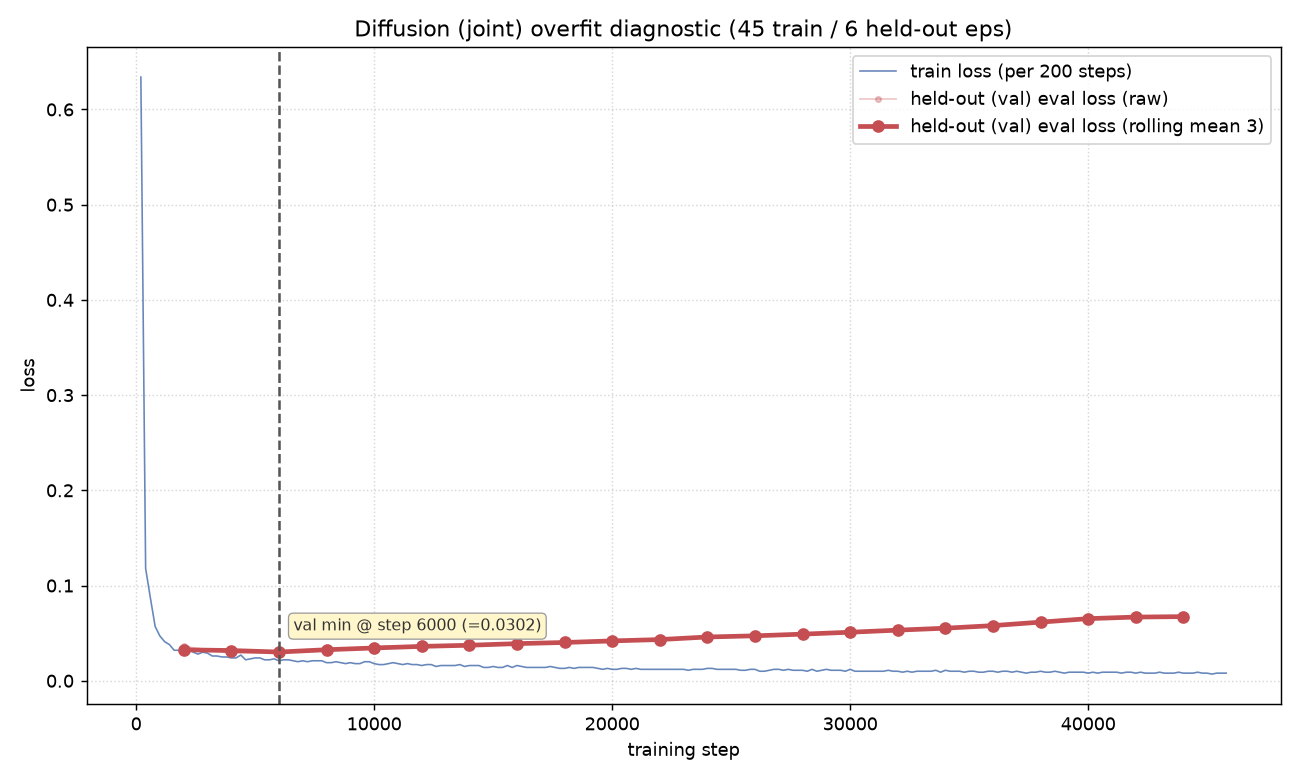
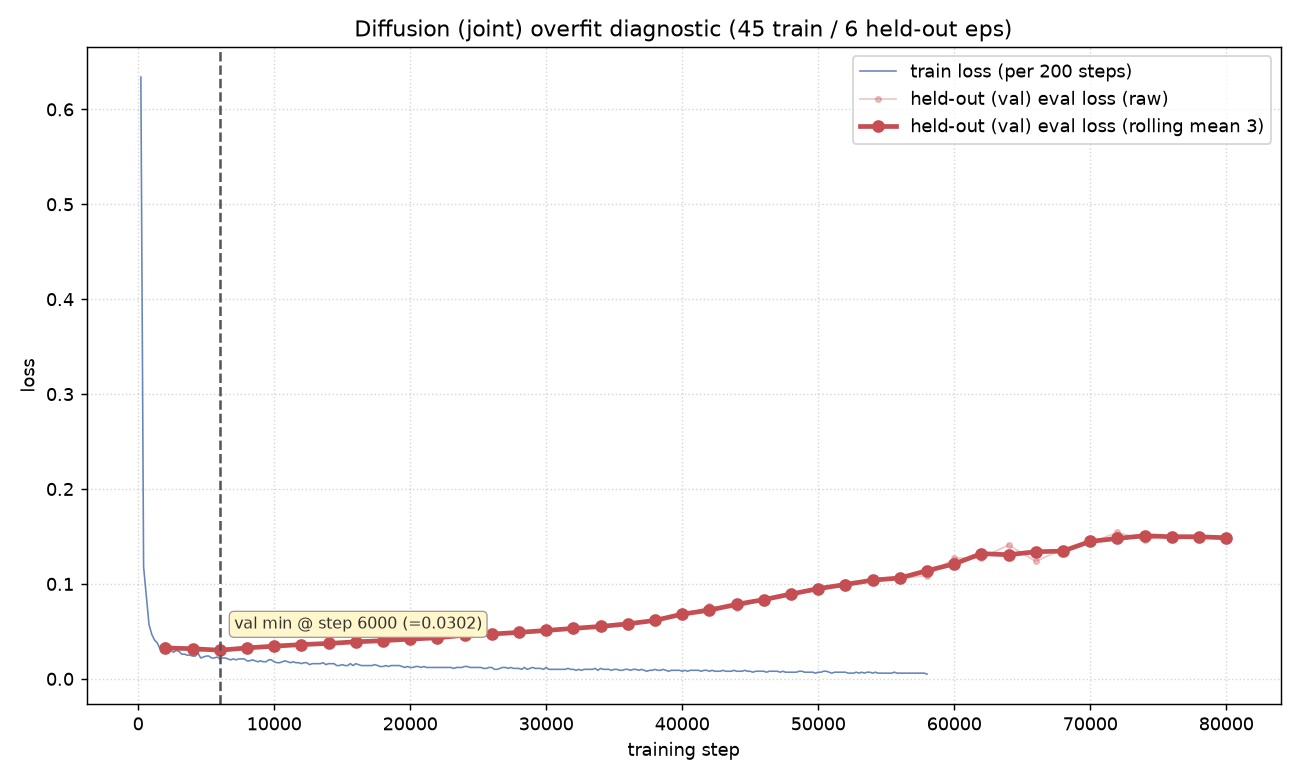
docs: joint diffusion run completed at 80k — final open-loop results
The JOINT diffusion run went the full 80k (not early-stopped). Sync the
final report, diagnostic figure, README headline block, and experiment log.

- Open-loop poseMAE: 10k 0.1193 -> 40k 0.0907 -> 60k 0.0849 -> 80k 0.0845;
  plateaus ~0.085 from 60k. gripAcc climbs to 0.953 @ 80k.
- NO open-loop overfitting through 80k; best checkpoint = 80k (deploy this).
- Denoising eval_loss rose to 0.1487 @ 80k (5x) and is confirmed misleading.
- select-by-open-loop-MAE lesson decisively confirmed for diffusion.
- Move the JOINT thread from open to resolved in EXPERIMENT_LOG.

Claude-Session: https://claude.ai/code/session_015uqrQGSgzNwrzejyrHvcEH

diff --git a/docs/DIFFUSION_JOINT_OVERFIT.md b/docs/DIFFUSION_JOINT_OVERFIT.md
@@ -28,22 +28,40 @@ _Trained on 45 episodes, 6 episodes (eps 45-50) held out as a true validation sp
 | 36000 | 0.0100 | 0.0565 |
 | 38000 | 0.0100 | 0.0622 |
 | 40000 | 0.0080 | 0.0660 |
-| 42000 | 0.0080 | 0.0675 |
-| 44000 | 0.0080 | 0.0672 |
+| 42000 | 0.0080 | 0.0764 |
+| 44000 | 0.0080 | 0.0746 |
+| 46000 | 0.0080 | 0.0845 |
+| 48000 | 0.0070 | 0.0913 |
+| 50000 | 0.0070 | 0.0921 |
+| 52000 | 0.0070 | 0.1018 |
+| 54000 | 0.0060 | 0.1042 |
+| 56000 | 0.0060 | 0.1060 |
+| 58000 | 0.0050 | 0.1086 |
+| 60000 | 0.0050 | 0.1272 |
+| 62000 | 0.0050 | 0.1275 |
+| 64000 | 0.0050 | 0.1410 |
+| 66000 | 0.0050 | 0.1238 |
+| 68000 | 0.0050 | 0.1369 |
+| 70000 | 0.0050 | 0.1431 |
+| 72000 | 0.0050 | 0.1543 |
+| 74000 | 0.0050 | 0.1464 |
+| 76000 | 0.0050 | 0.1517 |
+| 78000 | 0.0050 | 0.1509 |
+| 80000 | 0.0050 | 0.1464 |
 
 ## Summary
 
 - **Val-loss minimum:** 0.0302 @ step **6000** (smoothed, rolling mean 3)
-- **Final val loss:** 0.0673 @ step 44000 (smoothed, rolling mean 3)
-- **val_final / val_min ratio:** 2.2326
-- **Train vs val at final step (44000):** train 0.0080 vs val 0.0673 (gap = -0.0593)
+- **Final val loss:** 0.1487 @ step 80000 (smoothed, rolling mean 3)
+- **val_final / val_min ratio:** 4.9276
+- **Train vs val at final step (80000):** train 0.0050 vs val 0.1487 (gap = -0.1436)
 - **Recommended early-stop step:** 6000 (step of the val-loss minimum)
 
 ## Auto verdict
 
 > **OVERFIT from ~step 6000**
 
-The held-out loss bottoms at 0.0302 (step 6000) then rises to 0.0673 at the end (ratio 2.233 > 1.10). The model is overfitting the 45 training episodes past ~step 6000: further steps trade held-out generalization for lower train loss. **Use the checkpoint at step 6000 (recommended early-stop).**
+The held-out loss bottoms at 0.0302 (step 6000) then rises to 0.1487 at the end (ratio 4.928 > 1.10). The model is overfitting the 45 training episodes past ~step 6000: further steps trade held-out generalization for lower train loss. **Use the checkpoint at step 6000 (recommended early-stop).**
 
 ## How to read this (caveats)
 
@@ -54,30 +72,32 @@ The held-out loss bottoms at 0.0302 (step 6000) then rises to 0.0673 at the end 
 
 ---
 
-## IMPORTANT — two signals DISAGREE for diffusion (2026-07-09, early-stopped ~45k)
+## FINAL — full open-loop curve to 80k (run completed 2026-07-09)
 
-**Held-out denoising loss (`eval_loss`, the val-curve above) rose** from 0.0289 (4k, min) to
-0.0673 (44k) — this LOOKS like textbook overfitting and is why the run was early-stopped.
+Joint run reached 80k. Held-out denoising `eval_loss` kept rising to **0.1487 @ 80k**
+(from 0.0289 @ 4k) — i.e. the loss curve screams "severe overfit, 5×".
 
-**But the deployment-relevant open-loop rollout MAE tells the OPPOSITE story** — it kept
-improving (`eval_offline.py`, DDIM-10, held-out eps 45–50, radians):
+But the deployment-relevant **open-loop rollout MAE** (eval_offline.py, DDIM-10, held-out
+eps 45–50) tells the opposite story across the FULL run:
 
 | checkpoint | poseMAE (rad) | gripAcc | overall L1 |
 |---|---|---|---|
 | 10k | 0.1193 | 0.729 | 0.1454 |
 | 20k | 0.1037 | 0.888 | 0.1078 |
 | 30k | 0.0921 | 0.919 | 0.0928 |
-| **40k** | **0.0907** | **0.949** | **0.0862** |
+| 40k | 0.0907 | 0.949 | 0.0862 |
+| 50k | 0.0865 | 0.942 | 0.0832 |
+| 60k | 0.0849 | 0.944 | 0.0812 |
+| 70k | 0.0855 | 0.951 | 0.0809 |
+| **80k** | **0.0845** | **0.953** | **0.0796** |
 
-Open-loop poseMAE and gripper accuracy **monotonically improve 10k→40k** (still improving,
-decelerating), directly contradicting the denoising-loss "overfit" reading.
+**Conclusion:** open-loop poseMAE improves monotonically then **plateaus at ~0.085 from
+60k onward** (60k/70k/80k = 0.0849/0.0855/0.0845, within eval noise); gripper accuracy climbs
+all the way to **0.953 @ 80k**. There is **NO open-loop overfitting through 80k** — the model
+kept getting better (or held) on held-out data the entire run, directly contradicting the
+denoising `eval_loss`.
 
-**Methodological conclusion:** for a **diffusion** policy the held-out **denoising MSE is NOT a
-reliable early-stop / overfit signal** — it can rise while the actual generated-action quality
-improves (the two decorrelate because the loss scores noise prediction at random timesteps, not
-sampled-action accuracy). The **open-loop rollout MAE is the signal that matters**, and it says
-the model was NOT harmfully overfitting. This is the opposite of ACT, where the two signals agreed.
-
-**Practical takeaway:** best available joint-diffusion checkpoint = **40k** (poseMAE 0.091,
-gripAcc 0.95). The run was early-stopped at ~45k on the misleading loss curve; the open-loop
-trend suggests it had not yet plateaued and could improve further with more steps.
+**Best checkpoint = 80k** (tied-best poseMAE, best gripAcc); anything ≥60k is effectively
+equivalent on pose. Deploy 80k. This decisively confirms the project's headline lesson:
+**for a diffusion policy, held-out denoising eval_loss is NOT a valid overfit/early-stop
+signal — select by open-loop MAE.** (Contrast ACT, where the two signals agreed.)

diff --git a/EXPERIMENT_LOG.md b/EXPERIMENT_LOG.md
@@ -38,16 +38,20 @@ Key resolved config decisions (chosen for ACT-comparability and correctness): **
 
 This is the most instructive entry, and it involved a real course-correction — recorded honestly.
 
-The JOINT diffusion run's held-out **denoising `eval_loss` ROSE** from its minimum ~0.0289 (4k) to ~0.0673 (44k) — a textbook-looking overfit curve (`val_final/val_min` ≈ 2.2, auto-verdict "OVERFIT from ~step 6000"). **On that misleading signal the run was early-stopped at ~45k.** Then `eval_offline.py` open-loop rollout MAE (DDIM-10, held-out eps 45–50) was computed on the saved checkpoints and told the **opposite** story — it improved **monotonically**:
+The JOINT diffusion run's held-out **denoising `eval_loss` ROSE** from its minimum ~0.0289 (4k) to **0.1487 (80k)** — a textbook-looking overfit curve (`val_final/val_min` ≈ 4.9, auto-verdict "OVERFIT from ~step 6000"). That misleading signal initially prompted an early-stop plan at ~45k, but the run was **carried through to the full 80k** to read the deployment-relevant metric. `eval_offline.py` open-loop rollout MAE (DDIM-10, held-out eps 45–50), computed on the saved checkpoints across the **entire run**, told the **opposite** story — it improved then held:
 
 | checkpoint | poseMAE (rad) | gripAcc | overall L1 |
 |---|---|---|---|
 | 10k | 0.1193 | 0.729 | 0.1454 |
 | 20k | 0.1037 | 0.888 | 0.1078 |
 | 30k | 0.0921 | 0.919 | 0.0928 |
-| **40k** | **0.0907** | **0.949** | **0.0862** |
+| 40k | 0.0907 | 0.949 | 0.0862 |
+| 50k | 0.0865 | 0.942 | 0.0832 |
+| 60k | 0.0849 | 0.944 | 0.0812 |
+| 70k | 0.0855 | 0.951 | 0.0809 |
+| **80k** | **0.0845** | **0.953** | **0.0796** |
 
-**What this means:** for a diffusion policy the held-out denoising MSE is **not** a reliable early-stop/overfit signal — it scores noise prediction at random timesteps, not sampled-action accuracy, so it can rise while the actual generated-action quality keeps improving. The **open-loop rollout MAE is the signal that matters**, and it says the model was **not** harmfully overfitting. This is the opposite of ACT, where the two signals agreed. Because the open-loop trend had **not yet plateaued** at the early-stop point, the run was **resumed (≈40k → 80k)** rather than abandoned; the best available JOINT-diffusion checkpoint by open-loop MAE is **40k** (poseMAE 0.091, gripAcc 0.95). Standing lesson: **select diffusion checkpoints by open-loop MAE, never by `eval_loss`.** See `docs/DIFFUSION_JOINT_OVERFIT.md`.
+**What this means:** for a diffusion policy the held-out denoising MSE is **not** a reliable early-stop/overfit signal — it scores noise prediction at random timesteps, not sampled-action accuracy, so it can rise while the actual generated-action quality keeps improving. The **open-loop rollout MAE is the signal that matters**, and across the full 80k it says the model was **not** overfitting at all: poseMAE improved monotonically then **plateaued at ~0.085 from 60k onward** (60k/70k/80k = 0.0849/0.0855/0.0845, within eval noise) while gripper accuracy climbed to **0.953 @ 80k**. This is the opposite of ACT, where the two signals agreed. **Best JOINT-diffusion checkpoint by open-loop MAE = 80k** (tied-best pose, best grip); anything ≥60k is effectively equivalent on pose — deploy 80k. Standing lesson, now decisively confirmed: **select diffusion checkpoints by open-loop MAE, never by `eval_loss`.** See `docs/DIFFUSION_JOINT_OVERFIT.md`.
 
 ## 2026-07-08 — Deploy repo decision (real UR7e)
 
@@ -59,9 +63,13 @@ The experiment was packaged into this clone-and-rerun repo: scripts + docs only 
 
 ---
 
+## Resolved
+
+- **JOINT diffusion run — DONE (completed at 80k, 2026-07-09).** Ran the full 80k (not early-stopped). Open-loop poseMAE improved then **plateaued at ~0.085 from 60k** (80k = 0.0845), gripAcc **0.953 @ 80k**; **no open-loop overfitting through 80k**; **best checkpoint = 80k** (deploy this). The denoising `eval_loss` rose to 0.1487 @ 80k and is confirmed misleading. Lesson locked in: **select diffusion checkpoints by open-loop MAE, never by `eval_loss`.** See `docs/DIFFUSION_JOINT_OVERFIT.md`.
+
 ## Open threads
 
 - **EEF diffusion run** — the 10-dim EE-action leg (`train_diffusion_ee_valdiag.sh`) is planned and scripted but not yet run/reported (`DIFFUSION_EE_OVERFIT.md` does not exist yet).
 - **EE-action dataset not on HF** — `banana_in_pot_ee_action_lerobot` (484 MB) is local-only (HF 401); until a one-time push, the canonical route is rebuild-from-raw (needs the JOINT dataset + raw h5 present first, video-reuse).
-- **Best-diffusion-checkpoint selection** — pick by **open-loop MAE** (`eval_offline.py`, DDIM-10), not `eval_loss`. JOINT best-so-far is 40k; the trend suggested more steps could still help, hence the resume toward 80k.
+- **Best-diffusion-checkpoint selection (EEF leg)** — pick by **open-loop MAE** (`eval_offline.py`, DDIM-10), not `eval_loss`. This lesson is now settled for JOINT (see below); it still needs to be applied to the pending EEF run.
 - **Deploy is a design, not yet executed** — `gello_policy` ROS2 package and `act_server.py` are specified in `DEPLOY_REPO_DECISION.md` but not yet built on the robot PC; closed-loop real-robot validation is the outstanding verdict for both ACT and diffusion.

diff --git a/README.md b/README.md
@@ -18,7 +18,7 @@
 
 ## 🔑 Headline finding — for Diffusion, `eval_loss` is a misleading overfit signal
 
-> For the **Diffusion Policy**, held-out **denoising `eval_loss` ROSE** (0.0289 @ 4k → 0.0673 @ 44k — textbook "overfit") while the deployment-relevant **open-loop rollout MAE kept IMPROVING**. The denoising loss scores noise prediction at random diffusion timesteps, not sampled-action accuracy, so the two decorrelate. **Select diffusion checkpoints by open-loop MAE, never by `eval_loss`.** For **ACT the two signals agreed** (open-loop best ≈ 30k).
+> For the **Diffusion Policy**, held-out **denoising `eval_loss` ROSE** (0.0289 @ 4k → 0.1487 @ 80k — textbook "overfit", 5×) while the deployment-relevant **open-loop rollout MAE kept IMPROVING and then plateaued** (poseMAE 0.1193 @ 10k → 0.0845 @ 80k). The denoising loss scores noise prediction at random diffusion timesteps, not sampled-action accuracy, so the two decorrelate. Over the **full 80k run there was NO open-loop overfitting** — best checkpoint = **80k**. **Select diffusion checkpoints by open-loop MAE, never by `eval_loss`.** For **ACT the two signals agreed** (open-loop best ≈ 30k).
 
 JOINT diffusion, open-loop DDIM-10 on held-out eps 45–50 (`eval_offline.py`, radians):
 
@@ -27,7 +27,9 @@ JOINT diffusion, open-loop DDIM-10 on held-out eps 45–50 (`eval_offline.py`, r
 | 10k | 0.1193 | 0.729 |
 | 20k | 0.1037 | 0.888 |
 | 30k | 0.0921 | 0.919 |
-| **40k** | **0.0907** | **0.949** |
+| 40k | 0.0907 | 0.949 |
+| 60k | 0.0849 | 0.944 |
+| **80k** | **0.0845** | **0.953** |
 
 Full analysis → **[docs/DIFFUSION_JOINT_OVERFIT.md](docs/DIFFUSION_JOINT_OVERFIT.md)**.
 
@@ -54,8 +56,8 @@ setsid nohup ./train_diffusion_joint_valdiag.sh </dev/null >train.log 2>&1 &
 
 # 6. Offline eval + checkpoint selection (DDIM-10 open-loop on held-out eps 45–50)
 ./lr_env/bin/python eval_offline.py \
-    --checkpoint outputs/train/diffusion_joint_val_diag/checkpoints/040000/pretrained_model \
-    --episodes 45,46,47,48,49,50 --device cuda --out eval_out_40k
+    --checkpoint outputs/train/diffusion_joint_val_diag/checkpoints/080000/pretrained_model \
+    --episodes 45,46,47,48,49,50 --device cuda --out eval_out_80k
 ```
 
 > `setsid` returns a **wrapper** pid — find the real training pid with `pgrep -f 'lerobot-train.*diffusion_joint'`. Every must-not-remove flag (`--policy.resize_shape='[360,640]'`, `--policy.drop_n_last_frames=31`, `--dataset.eval_split=0.117`) and the detached-launch gotcha are in **[TROUBLESHOOTING.md](TROUBLESHOOTING.md)**.